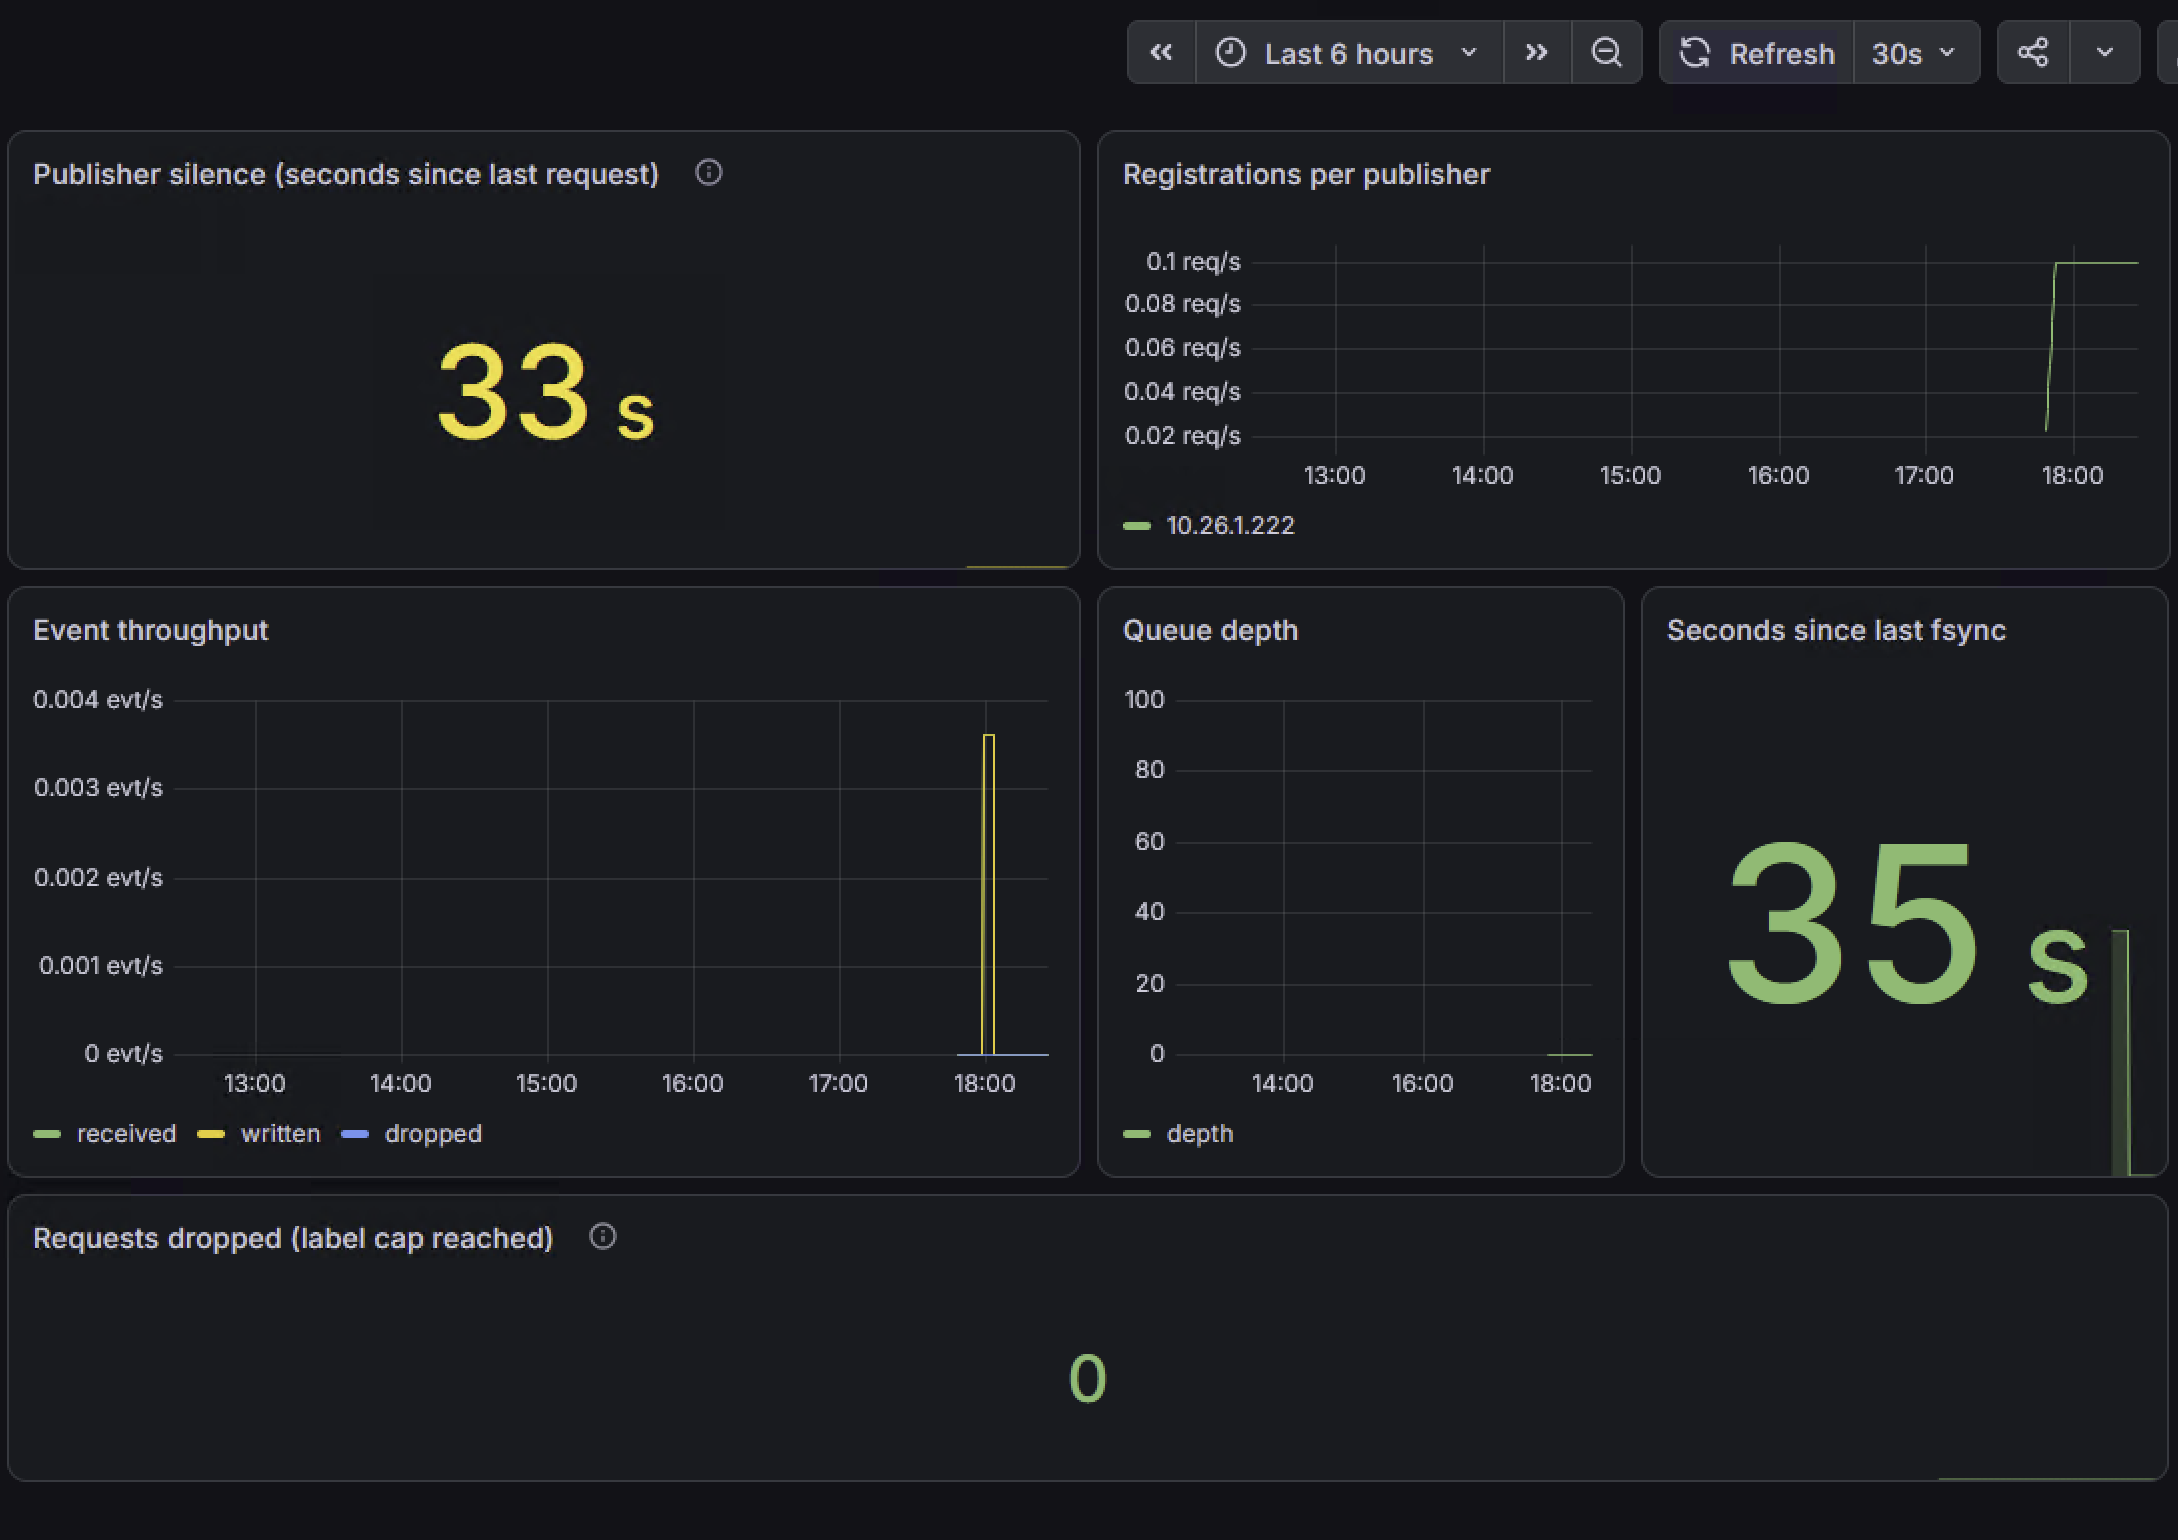
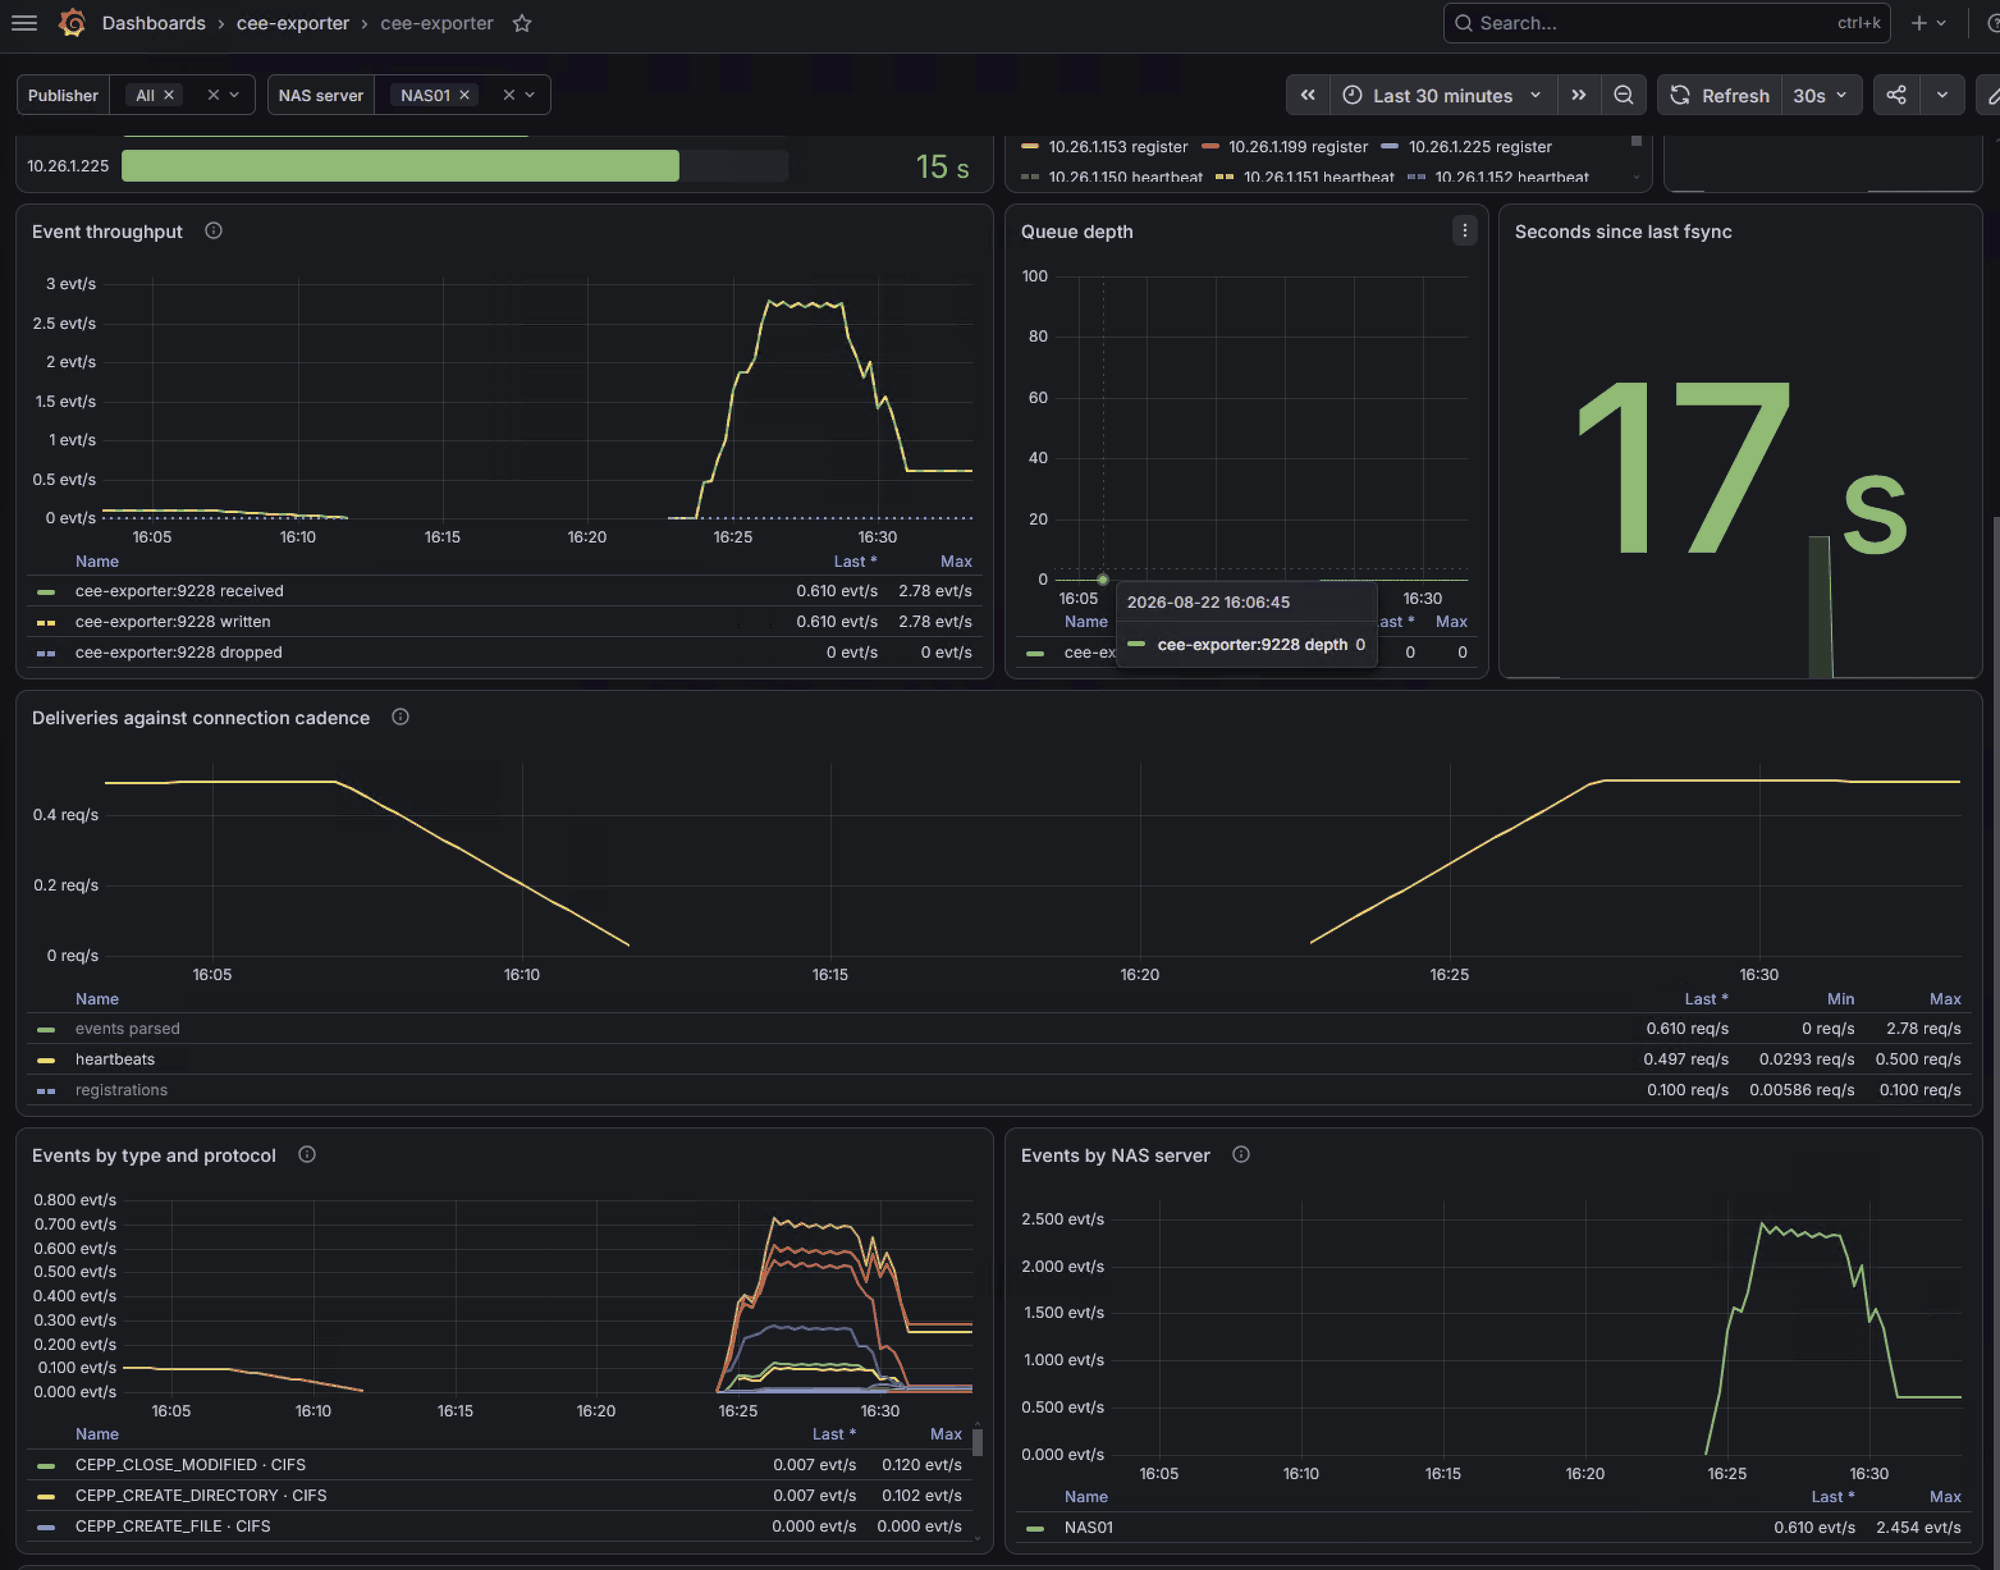
docs: refresh the Grafana screenshot and read it panel by panel
The shipped capture was from 2026-08-11: one publisher, 0.004 evt/s, no
template variables, and a panel titled "Registrations per publisher" that
has since been renamed to "Handshakes per publisher". It documented a
dashboard that no longer exists.

Replace it with a 2026-08-22 capture against a live estate — several CEE
publishers, both template variables in use, a real ~10-minute burst
peaking at 2.78 evt/s — and surface it on the README and docs home page
instead of only deep inside the operator guide.

The operator-guide text now reads the frame panel by panel with the
values actually visible in it, and fixes two claims inherited from the
old section: the Publisher silence thresholds are orange at 30 s and red
at 60 s (not "yellow at 30"), and Seconds since last fsync is meaningful
only for the evtx writer — with a network-only output the gauge never
leaves 0 and the panel reads as an epoch-sized age.

The dashboard JSON carried the same shape of drift: the "Events by type
and protocol" description asserted the panel "resolves to exactly one
series — CEPP_CREATE_FILE · NFS", which the new screenshot contradicts
on the same page. Restate it as a dated observation.

PROMISES.md's row is updated to describe what the new capture does and
does not cover: the two stat panels and the More metrics row sit above
the top of the frame, and queue depth and dropped are still drawing
zeroes, so no saturation path is tested. Status and counts unchanged.
[…]

diff --git a/docs/PROMISES.md b/docs/PROMISES.md
@@ -110,7 +110,7 @@ traceability this table draws on.
 | Every CEPA request stamps its publisher — handshake, event batch, unparseable payload, and unreadable body alike — so a broken-but-alive publisher does not read as dead | `docs/operator-guide.md` "Publisher liveness" | `pkg/server/server_test.go::TestServeHTTP_StampsPeerOnEveryPath` table-drives all four paths, including a body that fails mid-read. The body-read case is the one that pins the stamp's placement: the other three read their bodies successfully, so a stamp moved after `readBody` still passes them. Verified by mutation — moving the stamp after `readBody` fails only the `body read error` subtest, and moving it after the parse check fails the register-request and parse-error subtests (CI `ci` job, `make test`) | Verified |
 | The `remote` label is bounded: the ephemeral port is stripped and distinct publishers are capped at 64, with overflow counted rather than silently dropped | `docs/operator-guide.md` "Publisher liveness" (Cardinality) | `pkg/metrics/metrics_test.go::TestStore_PeerCap` asserts the 65th publisher is rejected and `PeersDropped` increments — verified by mutation, removing the cap check fails it with 65 entries; `pkg/server/server_test.go::TestServeHTTP_StampsPeerWithoutPort` asserts three ports on one host collapse to one label value (CI `ci` job, `make test`) | Verified |
 | These metrics detect a CEE server that has gone silent, **not** a NAS Data Mover that stopped publishing into a healthy CEE server | `docs/operator-guide.md` "Publisher liveness" (What this does and does not detect) | Nothing tests this — it is a scope limitation of what the transport can observe, stated so the metric is not read as covering more than it does. No test can verify an absence of capability | **Unverified** — documented limitation, not a tested behaviour |
-| The Grafana dashboard in `dashboards/cee-exporter.json` queries these metrics correctly | `README.md`, `docs/operator-guide.md` | Loaded into Grafana 11.5.1 via `deploy/compose.yaml` against a live Prometheus scraping a cee-exporter with three real CEE 9.2.0.0 publishers (2026-08-11). All 8 panel expressions were executed and every one returned data — 3 series for the per-publisher panels, 1 each for the aggregate panels, 0 empty. The dashboard provisions and its datasource resolves. No CI job does any of this. Panel rendering was subsequently captured (`docs/assets/grafana-dashboard.png`, same day, one publisher): all six panels draw with the units and legends they declare, which covers layout and legibility but says nothing about behaviour under load — the capture window contains one short burst, so the queue-depth and dropped panels are drawing zeroes, not a tested saturation path | **Verified (manual)** — queries executed against live data on 2026-08-11, rendering captured the same day; nothing re-checks either on an ongoing basis, and no panel has been seen under sustained or VCAPS-batch load |
+| The Grafana dashboard in `dashboards/cee-exporter.json` queries these metrics correctly | `README.md`, `docs/operator-guide.md` | Loaded into Grafana 11.5.1 via `deploy/compose.yaml` against a live Prometheus scraping a cee-exporter with three real CEE 9.2.0.0 publishers (2026-08-11). All 8 panel expressions were executed and every one returned data — 3 series for the per-publisher panels, 1 each for the aggregate panels, 0 empty. The dashboard provisions and its datasource resolves. No CI job does any of this. Panel rendering was captured on 2026-08-11 (one publisher) and re-captured on 2026-08-22 against a live estate with several publishers and a NAS server named in the events — `docs/assets/grafana-dashboard.png` now holds the 2026-08-22 frame, scrolled to the Diagnostics row (`Publisher silence`, `Handshakes per publisher`, `Event throughput`, `Queue depth`, `Seconds since last fsync`, `Deliveries against connection cadence`, `Events by type and protocol`, `Events by NAS server`). Every panel in that frame draws data with the units and legends it declares, and both template variables (`publisher`, `server`) resolve. This covers layout, legibility and datasource resolution; it says nothing about behaviour under load — the window contains one ~10-minute burst peaking at 2.78 evt/s, so the queue-depth and dropped panels are drawing zeroes, not a tested saturation path. The two stat panels and the `More metrics` row are above the top of the frame and so are not covered by this capture | **Verified (manual)** — queries executed against live data on 2026-08-11, rendering captured then and re-captured 2026-08-22; nothing re-checks either on an ongoing basis, and no panel has been seen under sustained or VCAPS-batch load |
 | The alert rules in `deploy/prometheus/alerts.yml` fire and resolve as documented | `docs/operator-guide.md` "Publisher liveness" | Verified twice by taking real components down, against the rules as they now stand (all six load with `health=ok`). **Publisher down:** CEE stopped on `10.0.2.250` — `CEEPublisherSilent` went no-alert → pending (t+90s) → **firing** (t+210s), matching the 60s threshold plus `for: 2m`, and fired **only** for that publisher while the other two stayed green. This is the per-publisher discrimination the `remote` label exists for, demonstrated rather than argued. **Exporter down:** the exporter itself stopped — `CEEExporterDown` fired at t+120s while `CEEPublisherSilent` stayed silent for all three publishers, confirming the `up{job="cee-exporter"} == 1` gate prevents a scrape failure from being misreported as every publisher dying at once. Both resolved within a minute of the component restarting. Not re-checked by CI | **Verified (manual)** — measured end-to-end on 2026-08-11 |
 | The publisher-liveness series only cover publishers seen since the exporter started — a publisher already dead at startup has no series, and `CEEPublisherSilent` cannot fire for it | `docs/operator-guide.md` "Publisher liveness" | Nothing tests this; it follows from the peer table being in-process state that starts empty (`pkg/metrics/metrics.go`). The `CEENoPublishers` and per-publisher `absent()` rules in the operator guide are the documented mitigation, and neither is exercised by any test in this repo | **Unverified** — a documented limit of in-process state, not a tested behaviour |
 

diff --git a/docs/operator-guide.md b/docs/operator-guide.md
@@ -509,26 +509,52 @@ docker compose -f deploy/compose.yaml up -d
 # Grafana on :3000, Prometheus on :9090
 ```
 
-[![cee-exporter Grafana dashboard: publisher silence, registrations per
-publisher, event throughput, queue depth, seconds since last fsync, and
-requests dropped at the label cap](assets/grafana-dashboard.png)](assets/grafana-dashboard.png)
+[![cee-exporter Grafana dashboard, Diagnostics row: publisher silence,
+handshakes per publisher, event throughput, queue depth, seconds since last
+fsync, deliveries against connection cadence, events by type and protocol, and
+events by NAS server](assets/grafana-dashboard.png)](assets/grafana-dashboard.png)
 
 *Click for full resolution — the panel labels are unreadable at page width.*
 
-The screenshot above is a real capture (Grafana 11.5.1, 2026-08-11) against a
-live exporter with one CEE publisher. Read it as proof the panels provision and
-render — not as a performance baseline:
+The screenshot above is a real capture (Grafana 11.5.1, 2026-08-22) against a
+live exporter fed by several CEE publishers on a PowerStore NAS server. The
+frame is scrolled to the **Diagnostics** row, so the two stat panels and the
+`More metrics` row at the top of the dashboard are out of shot. Read it as
+proof the panels provision, resolve their datasource and render real data —
+not as a performance baseline:
 
-- The traffic is a single short burst at 18:00 on an otherwise idle window.
-  Queue depth flat at zero and `dropped` at zero mean the queue was never put
-  under pressure, not that it holds up under a VCAPS batch load.
-- **Publisher silence** turns yellow at 30 s. That threshold must sit above
+- Both template variables are in use: `Publisher` is `All`, `NAS server` is
+  pinned to `NAS01`. Every panel below the variables honours that filter, so a
+  second NAS server's traffic would not appear in this frame.
+- **Publisher silence** shows one bar per `remote` label — 15 s for
+  `10.26.1.225` here. It goes orange at 30 s and red at 60 s. Those thresholds must sit above
   your CEE `HeartBeatIntervalSecs` plus jitter — see
   [Publisher liveness](#publisher-liveness) — or an idle-but-healthy system
   will sit permanently yellow.
-- `received` and `written` overlap on the throughput panel when nothing is
-  being dropped, so one line can hide the other. Read the legend values, not
-  the shape.
+- **Handshakes per publisher** carries a `register` and a `heartbeat` series
+  per publisher, which is how you tell a partner that keeps re-registering
+  (CEE restarting the handshake) from one that is simply heartbeating.
+- **Event throughput** peaked at 2.78 evt/s over a ~10-minute burst starting
+  16:23, with `dropped` flat at 0 and queue depth flat at 0. That means the
+  queue was never put under pressure in this window — not that it holds up
+  under a VCAPS batch load. `received` and `written` overlap exactly when
+  nothing is being dropped, so one line hides the other; read the legend
+  values, not the shape.
+- **Deliveries against connection cadence** answers whether deliveries are
+  driven by filesystem activity or by the connection clock: parsed events
+  (0.610 req/s last, 2.78 peak) rise well above the heartbeat rate, which
+  holds near 0.497 req/s with registrations near 0.100 req/s. An event rate
+  that instead tracks the heartbeat line exactly is CEE redelivering an event
+  it cannot retire, once per heartbeat, forever — see the panel description
+  for the measured case.
+- **Events by type and protocol** breaks the same traffic down per CEPA event
+  type and access protocol (`CEPP_CLOSE_MODIFIED · CIFS` and friends); the
+  legend scrolls, so the visible three are not the whole set.
+- **Seconds since last fsync** at 17 s is the age of the last durable write,
+  not a latency. It sawtooths up to `flush_interval_s` and back; alert when it
+  exceeds twice that. Only the `evtx` writer fsyncs, so 17 s here means an
+  EVTX file is being written; with a network-only output the underlying gauge
+  never leaves 0 and this panel reads as an epoch-sized age, not as a fault.
 
 No CI job checks this dashboard. Its verification status is tracked in
 [PROMISES.md](PROMISES.md).

diff --git a/README.md b/README.md
@@ -18,6 +18,10 @@
 
 Go daemon that receives Dell PowerStore CEPA audit events (HTTP PUT / XML) and forwards them to a SIEM (GELF, syslog, or Beats) or writes them as Windows EventLog entries — native `ReportEvent` calls on Windows, binary `.evtx` files everywhere else. No external dependencies — single static binary.
 
+[![cee-exporter Grafana dashboard showing event throughput, queue depth, fsync age, delivery cadence, events by type and protocol, and events by NAS server](docs/assets/grafana-dashboard.png)](docs/assets/grafana-dashboard.png)
+
+<p align="center"><em>The bundled Grafana dashboard against a live estate — Grafana 11.5.1, 2026-08-22. Provision it with <code>docker compose -f deploy/compose.yaml up -d</code>; panel-by-panel reading in the <a href="https://fjacquet.github.io/cee-exporter/operator-guide/#grafana-dashboard">operator guide</a>.</em></p>
+
 ## Features
 
 - CEPA protocol compliance — RegisterRequest handshake, heartbeat ACK within 3 s

diff --git a/docs/index.md b/docs/index.md
@@ -14,6 +14,15 @@
 - [Releases & binaries](https://github.com/fjacquet/cee-exporter/releases)
 - [Docker image](https://ghcr.io/fjacquet/cee-exporter)
 
+## What it looks like running
+
+[![cee-exporter Grafana dashboard showing event throughput, queue depth, fsync age, delivery cadence, events by type and protocol, and events by NAS server](assets/grafana-dashboard.png)](assets/grafana-dashboard.png)
+
+*The bundled dashboard (`dashboards/cee-exporter.json`) against a live estate —
+Grafana 11.5.1, 2026-08-22. Click for full resolution; the panel-by-panel
+reading, and what the capture does **not** prove, is in the
+[operator guide](operator-guide.md#grafana-dashboard).*
+
 ## Architecture overview (v2)
 
 ```mermaid
